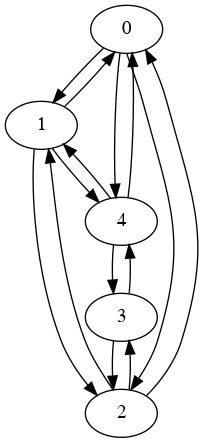
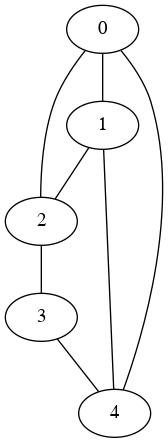
false

diff --git a/firsTry.cpp b/firsTry.cpp
@@ -296,7 +296,7 @@ void menu() {
             break;
         case 5:
             if (m != nullptr)
-                visualizeGraph(m, t, "graphs.dot", true);
+                visualizeGraph(m, t, "graphs.dot", false);
             break;
         case 6:
             break;
